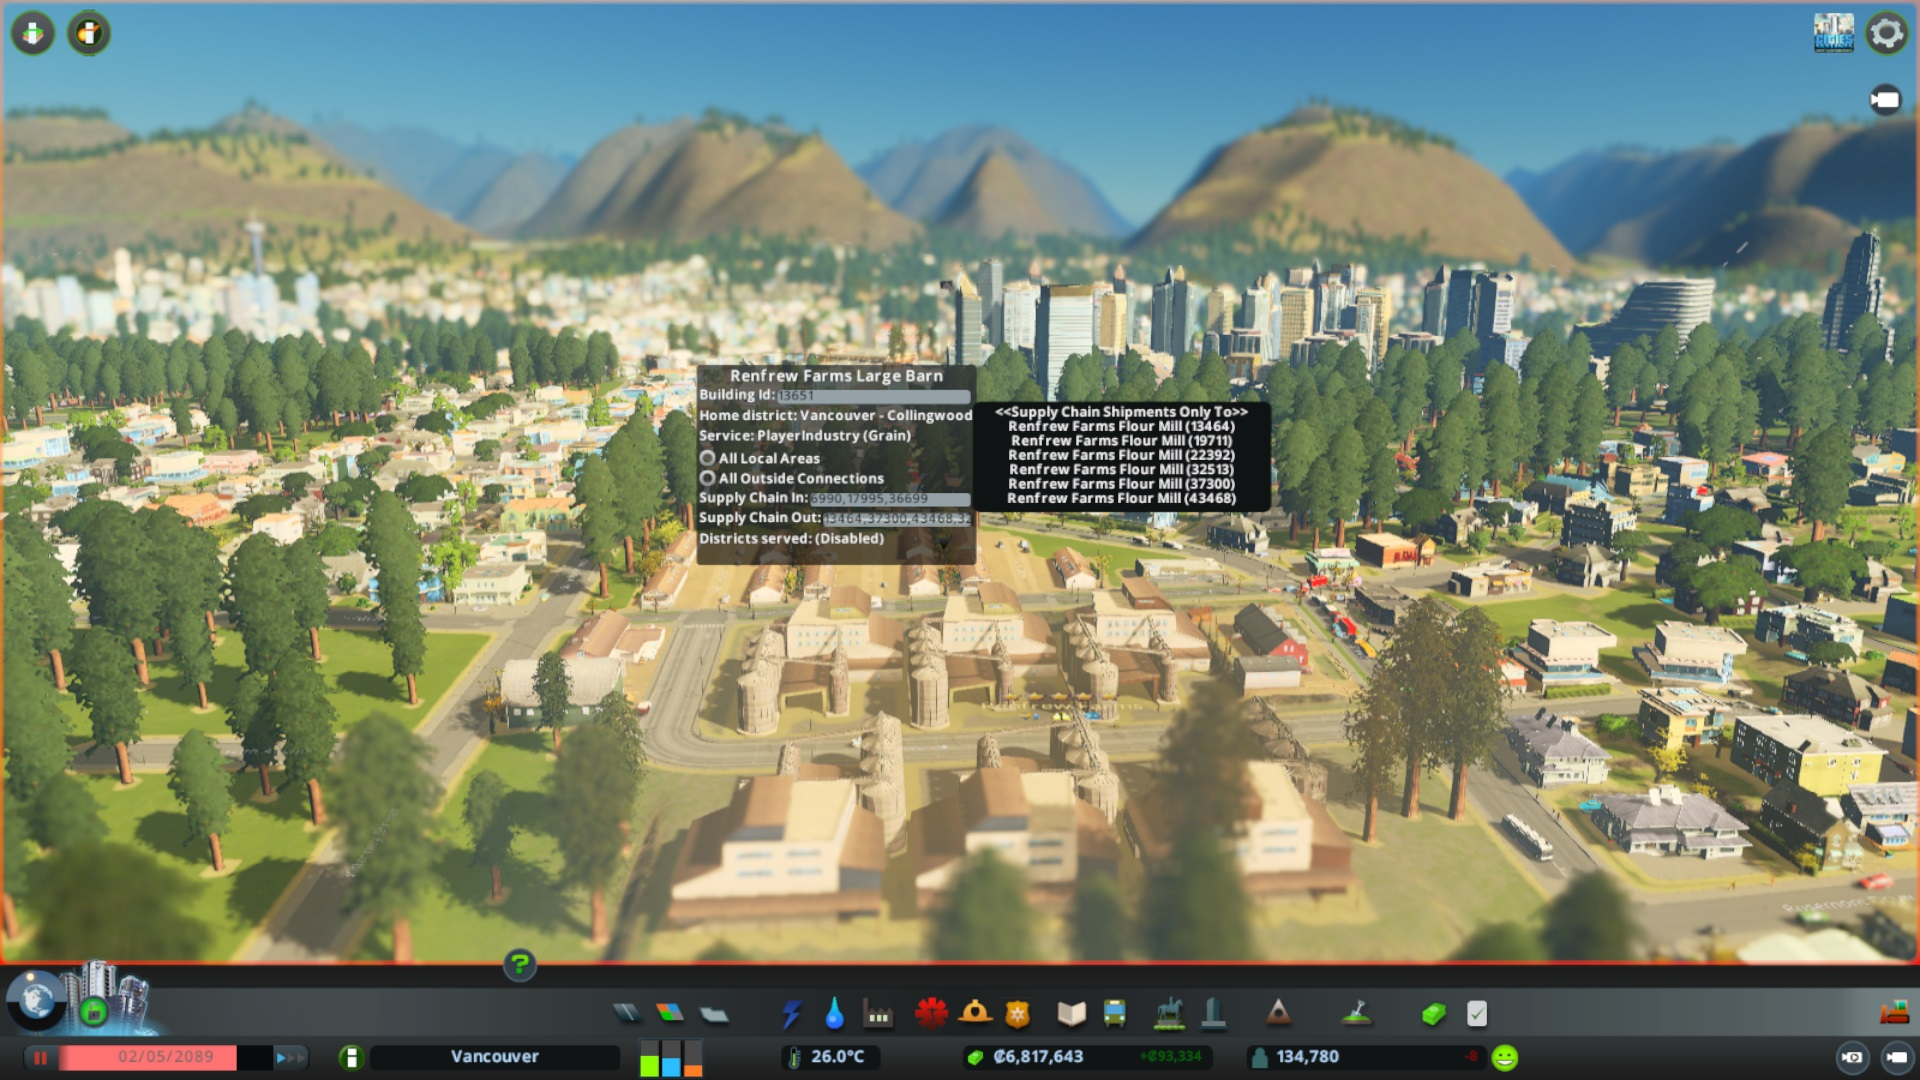
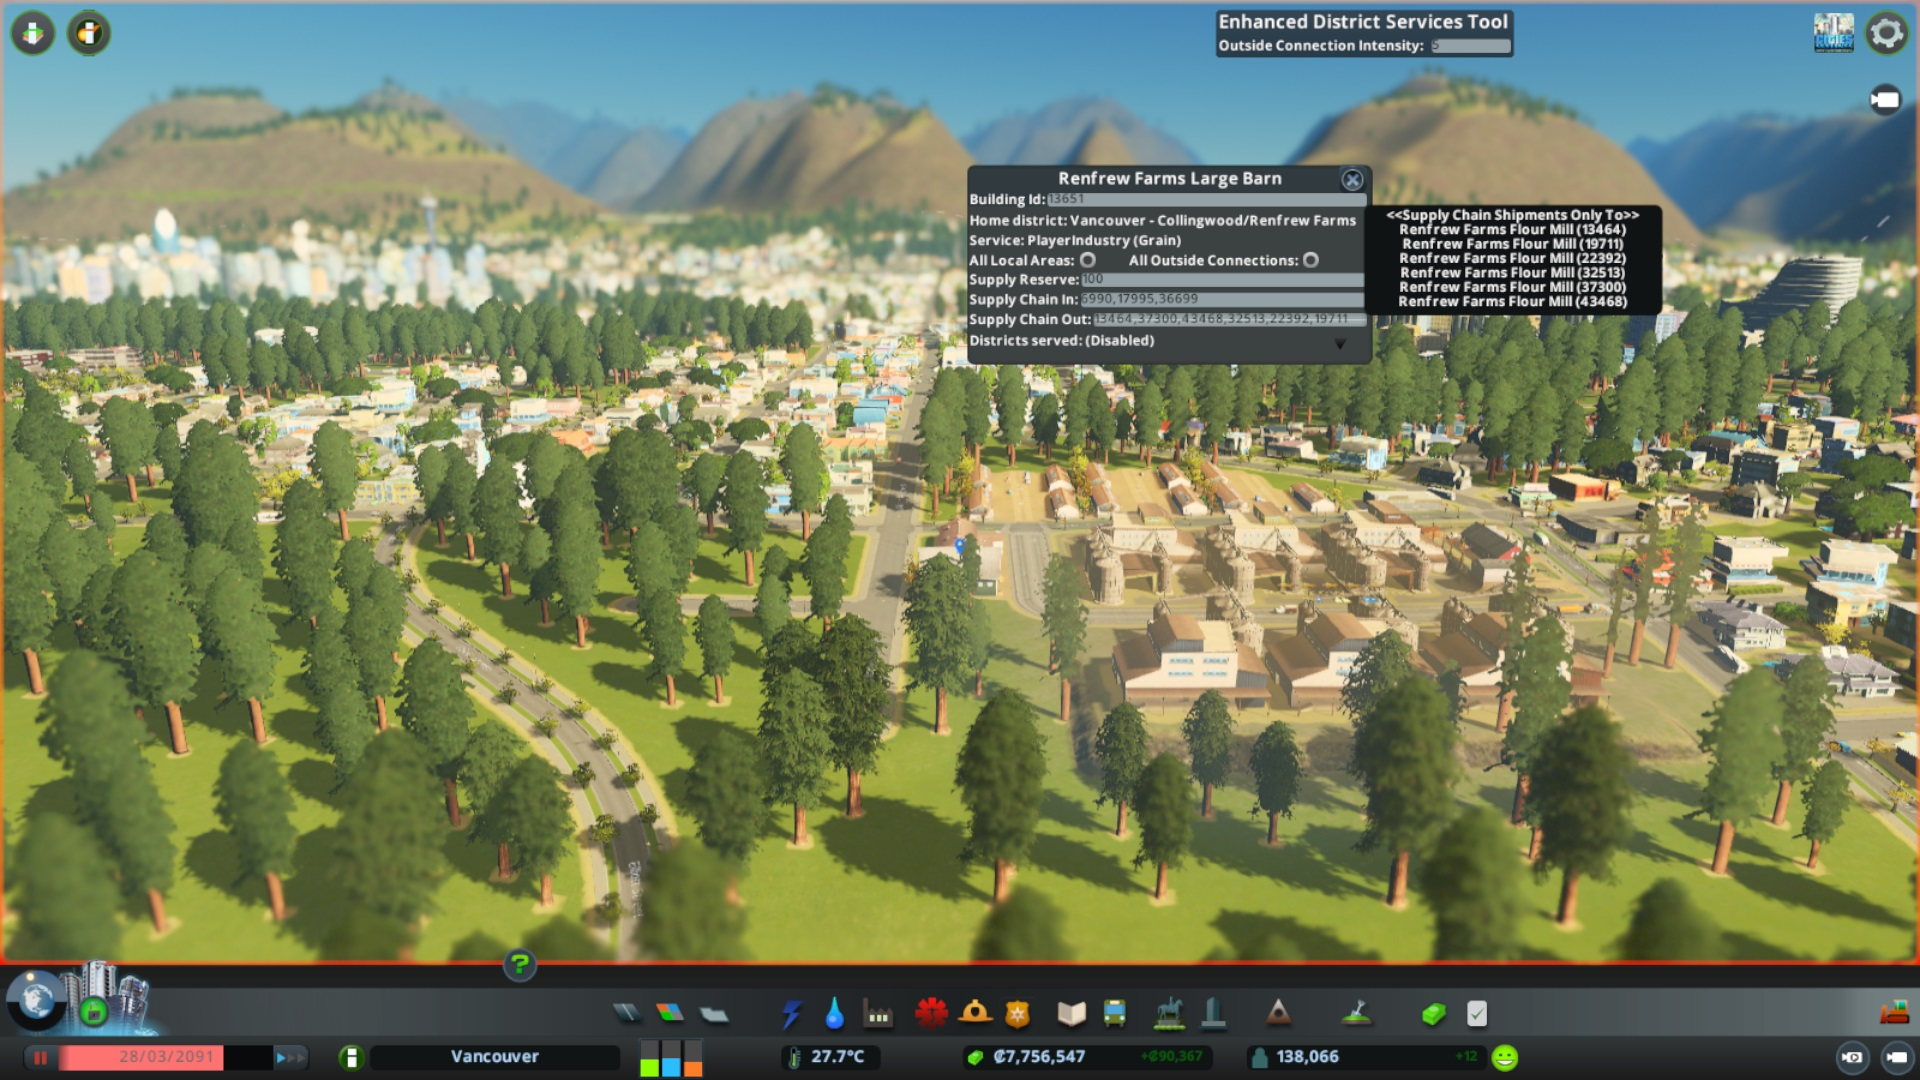
Update pictures and allow the user to set the global outside connection intensity

diff --git a/Source/UI/UITitlePanel.cs b/Source/UI/UITitlePanel.cs
@@ -1,4 +1,6 @@
-using ColossalFramework.UI;
+using ColossalFramework;
+using ColossalFramework.UI;
+using System;
 using UnityEngine;
 
 namespace EnhancedDistrictServices
@@ -81,6 +83,8 @@ namespace EnhancedDistrictServices
         }
 
         public UILabel UITitle;
+        public UILabel GlobalIntensityLabel;
+        public UITextField GlobalIntensity;
 
         /// <summary>
         /// Layout the GUI.
@@ -99,25 +103,120 @@ namespace EnhancedDistrictServices
 
             name = GetType().Name;
             backgroundSprite = "InfoPanelBack";
-            size = new Vector2(298, 28);
-            relativePosition = new Vector3((screenSize.x - size.x) / 2, 10);
+            size = new Vector2(298, 48);
+            relativePosition = new Vector3(3 * (screenSize.x - size.x) / 4, 10);
 
-            var label = AddUIComponent<UILabel>();
-            label.text = "Enhanced District Services Tool";
-            label.textScale = 1.1f;
-            label.relativePosition = new Vector3(3, 3);
-            label.size = new Vector2(298, 28);
-            label.autoSize = false;
-            label.textAlignment = UIHorizontalAlignment.Center;
-            label.verticalAlignment = UIVerticalAlignment.Middle;
+            UITitle = AddUIComponent<UILabel>();
+            UITitle.text = "Enhanced District Services Tool";
+            UITitle.textScale = 1.1f;
+            UITitle.relativePosition = new Vector3(3, 3);
+            UITitle.size = new Vector2(298, 28);
+            UITitle.autoSize = false;
+            UITitle.textAlignment = UIHorizontalAlignment.Center;
+            UITitle.verticalAlignment = UIVerticalAlignment.Middle;
+            UITitle.tooltip = "Click on service building to configure";
 
-            label.tooltip = "Click on service building to configure";
+            GlobalIntensityLabel = AttachUILabelTo(this, 3, 29, text: "Outside Connection Intensity:");
+            GlobalIntensityLabel.tooltip = "The intensity controls the amount of supply chain traffic entering the city, between 0 and 100\nWARNING: Do not set this too high, otherwise your traffic will become overwhelmed with traffic!";
+
+            GlobalIntensity = AttachUITextFieldTo(this, 3, 29, 213);
+            GlobalIntensity.eventTextCancelled += (c, p) =>
+            {
+                Logger.LogVerbose("UITitlePanel::GlobalIntensity TextCancelled");
+                Singleton<SimulationManager>.instance.AddAction(() =>
+                {
+                    UpdatePanel();
+                });
+            };
+
+            GlobalIntensity.eventTextSubmitted += (c, p) =>
+            {
+                Logger.LogVerbose("UITitlePanel::GlobalIntensity TextSubmitted");
+                Singleton<SimulationManager>.instance.AddAction(() =>
+                {
+                    if (string.IsNullOrEmpty(GlobalIntensity.text.Trim()))
+                    {
+                        UpdatePanel();
+                        return;
+                    }
+                    else
+                    {
+                        try
+                        {
+                            // TODO, FIXME: Do this in a single transaction and clean up hacky implementation below.
+                            var amount = ushort.Parse(GlobalIntensity.text);
+                            Constraints.SetGlobalOutsideConnectionIntensity(amount);
+                        }
+                        catch (Exception ex)
+                        {
+                            Logger.LogException(ex);
+                        }
+                    }
+
+                    UpdatePanel();
+                });
+            };
         }
 
         public override void OnEnable()
         {
             base.OnEnable();
+
+            Singleton<SimulationManager>.instance.AddAction(() =>
+            {
+                UpdatePanel();
+            });
+
             Show();
+        }
+
+        private void UpdatePanel()
+        {
+            GlobalIntensity.text = Constraints.GlobalOutsideConnectionIntensity().ToString();
+        }
+
+        private UILabel AttachUILabelTo(UIComponent parent, int x, int y, int height = 20, string text = "")
+        {
+            var label = parent.AddUIComponent<UILabel>();
+            label.text = text;
+            label.relativePosition = new Vector3(x, y);
+            label.size = new Vector2(size.x, height);
+            label.autoSize = false;
+            label.textAlignment = UIHorizontalAlignment.Left;
+            label.verticalAlignment = UIVerticalAlignment.Middle;
+            label.textScale = 0.8f;
+            return label;
+        }
+
+        private UITextField AttachUITextFieldTo(UIComponent parent, int x, int y, int xOffset)
+        {
+            x = x + xOffset;
+            xOffset = (int)size.x - 3 - (xOffset + 3);
+
+            var textField = parent.AddUIComponent<UITextField>();
+            textField.relativePosition = new Vector3(x, y);
+            textField.size = new Vector2(xOffset, 14f);
+            textField.autoSize = false;
+
+            textField.builtinKeyNavigation = true;
+            textField.readOnly = false;
+            textField.canFocus = true;
+            textField.isInteractive = true;
+            textField.enabled = true;
+            textField.color = Color.white;
+            textField.bottomColor = Color.white;
+            textField.textColor = Color.black;
+            textField.cursorBlinkTime = 0.45f;
+            textField.cursorWidth = 1;
+            textField.selectionSprite = "EmptySprite";
+            textField.normalBgSprite = "TextFieldPanel";
+            textField.hoveredBgSprite = "TextFieldPanelHovered";
+            textField.focusedBgSprite = "TextFieldPanel";
+            textField.textScale = 0.8f;
+            textField.horizontalAlignment = UIHorizontalAlignment.Left;
+            textField.verticalAlignment = UIVerticalAlignment.Middle;
+
+            return textField;
         }
     }
 }

diff --git a/Source/Constraints.cs b/Source/Constraints.cs
@@ -46,6 +46,11 @@ namespace EnhancedDistrictServices
         private static readonly List<int>[] m_supplySources = new List<int>[BuildingManager.MAX_BUILDING_COUNT];
 
         /// <summary>
+        /// Betweeen 0 and 100 inclusive, this controls how much incoming/outgoing traffic comes into the game.
+        /// </summary>
+        private static int m_globalOutsideConnectionIntensity = 5;
+
+        /// <summary>
         /// Static constructor.
         /// </summary>
         static Constraints()
@@ -111,6 +116,8 @@ namespace EnhancedDistrictServices
                     }
                 }
 
+                m_globalOutsideConnectionIntensity = data.GlobalOutsideConnectionIntensity;
+
                 Logger.Log("");
             }
         }
@@ -129,7 +136,8 @@ namespace EnhancedDistrictServices
                 BuildingToBuildingServiced = m_supplyDestinations.ToArray(),
                 BuildingToDistrictServiced = m_buildingToDistrictParkServiced
                     .Select(list => list?.Select(districtPark => districtPark.ToSerializedInt()).ToList())
-                    .ToArray()
+                    .ToArray(),
+                GlobalOutsideConnectionIntensity = m_globalOutsideConnectionIntensity
             };
         }
 
@@ -267,6 +275,16 @@ namespace EnhancedDistrictServices
             return m_supplySources[buildingId];
         }
 
+        /// <summary>
+        /// Between 0 and 100 inclusive, controls the intensity of traffic gonig to outside connections.
+        /// </summary>
+        /// <returns></returns>
+        public static int GlobalOutsideConnectionIntensity()
+        {
+            return m_globalOutsideConnectionIntensity;
+        }
+
+
         #endregion
 
         #region Local Areas and Outside Connections methods
@@ -326,6 +344,16 @@ namespace EnhancedDistrictServices
         public static void SetInternalSupplyReserve(int buildingId, int amount)
         {
             m_buildingToInternalSupplyBuffer[buildingId] = COMath.Clamp(amount, 0, 100);
+        }
+
+        /// <summary>
+        /// Set the global outside connection intensity.
+        /// </summary>
+        /// <param name="amount"></param>
+        public static void SetGlobalOutsideConnectionIntensity(int amount)
+        {
+            Logger.Log($"Constraints::SetGlobalOutsideConnectionIntensity: {amount}");
+            m_globalOutsideConnectionIntensity = COMath.Clamp(amount, 0, 100);
         }
 
         #endregion

diff --git a/Source/Serialization/Datav2.cs b/Source/Serialization/Datav2.cs
@@ -13,6 +13,7 @@ namespace EnhancedDistrictServices.Serialization
         public int[] BuildingToInternalSupplyBuffer = new int[BuildingManager.MAX_BUILDING_COUNT];
         public List<int>[] BuildingToDistrictServiced = new List<int>[BuildingManager.MAX_BUILDING_COUNT];
         public List<int>[] BuildingToBuildingServiced = new List<int>[BuildingManager.MAX_BUILDING_COUNT];
+        public int GlobalOutsideConnectionIntensity = 5;
 
         private static readonly string m_id = "EnhancedDistrictServices_v2";
 

diff --git a/Source/TransferManagerMod.cs b/Source/TransferManagerMod.cs
@@ -172,7 +172,7 @@ namespace EnhancedDistrictServices
                         preFilterRequest: PreFilterLowPriorityOffer);
 
                     // Now finally try and match to outside offers, as well as match using extra supply.
-                    if (m_randomizer.Int32(0, 100) <= 6)
+                    if (m_randomizer.Int32(0, 100) <= Constraints.GlobalOutsideConnectionIntensity())
                     {
                         MatchOffersClosest(
                             material,
